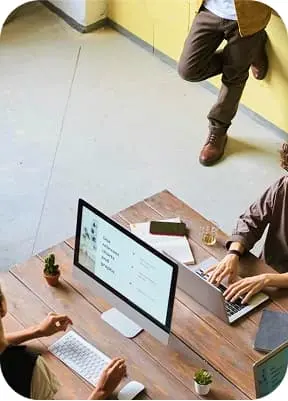
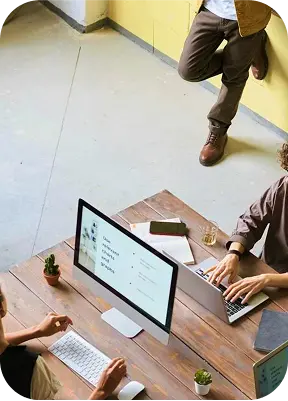
mini-fixes subscribe

diff --git a/src/css/subscribe.css b/src/css/subscribe.css
@@ -1,6 +1,4 @@
-.subscribe {
-    padding: 64px 0px;
-}
+
 .subscribe-title {
     font-family: "Aboreto", sans-serif;
 font-weight: 400;
@@ -11,13 +9,8 @@ color: #0b0803;
 }
 
 .subscribe .subscribe-container {
-   max-width: 320px;
-      margin: 0 auto;
-    padding: 0px 16px;
- 
     display: flex;
     flex-direction: column;
-    align-items: center;
     gap: 32px;
 }
 .subscribe-title {
@@ -40,7 +33,7 @@ color: #0b0803;
     border: 1px solid rgba(11, 8, 3, 0.15);
 border-radius: 12px;
 padding: 8px 12px;
-width: 288px;
+max-width: 288px;
 height: 40px;
 font-family: "Quicksand", sans-serif;
 font-weight: 400;
@@ -86,7 +79,7 @@ color: #7f1c1c;
    border-radius: 100px;
    border: none;
 padding: 10px 24px;
-width: 288px;
+max-width: 288px;
 height: 44px;
 box-shadow: 0 1px 2px 0 rgba(11, 8, 3, 0.05), inset 0 -2px 1px 0 rgba(0, 0, 0, 0.2), inset 0 0 0 1px rgba(11, 8, 3, 0.15), inset 0 2px 1px 0 rgba(255, 255, 255, 0.25), inset 0 32px 24px 0 rgba(255, 255, 255, 0.05);
 background: #6f4e37;
@@ -110,9 +103,10 @@ color: #0b0803;
 }
 
 .subscribe-image {
-    border-radius: 40px;
-     max-width: 288px;
+
+    width: 100%;
 }
+
 /* =================tablet========================= */
 @media (min-width: 768px) and (max-width: 1439px) {
     .subscribe .subscribe-container {
@@ -133,7 +127,7 @@ align-items: start;
         row-gap: 0px;
     }
     .subscribe-image {
-        max-width: 704px;
+        width: 704px;
     }
 }
 
@@ -162,7 +156,7 @@ align-items: start;
     width: 158px;
 }
 .subscribe-image {
-    max-width: 640px;
+    width: 640px;
 }
 }
 
